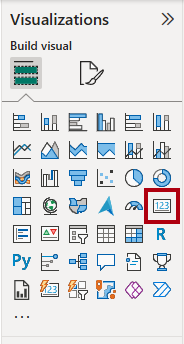
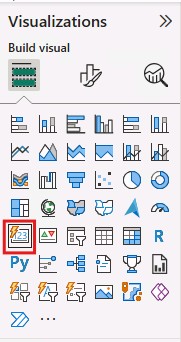
New Card format instructions (#322)
* Clarify matrix visual property name in Lab 05 instructions

* Resized image

* Updated instructions for new Card format.

diff --git a/Instructions/Labs/09-enhance-power-bi-reports.md b/Instructions/Labs/09-enhance-power-bi-reports.md
@@ -68,9 +68,12 @@ In this exercise, you'll create a new page and configure it as a drillthrough pa
 
     ![Picture 4](Linked_image_Files/09-enhance-power-bi-reports_image24.png)
 
-1. Drag the `Product | Category` field into the card visual.
+1. Drag the `Product | Category` field into the **Value** box under visualization pane.
 
-1. Configure the format options for the visual to turn the **Category Label** property to **Off**.
+1. Configure the format options as the following:
+    - Under **Multi-card layout** disable **Fit to space** and select 1 for **columns**
+    - Under **Cards** disable all options.
+    - Under **Callout** disable **Label**, expand **Value** and center **Horizontal alignment**.
 
     ![Picture 5](Linked_image_Files/09-enhance-power-bi-reports_image36b.png)
 
